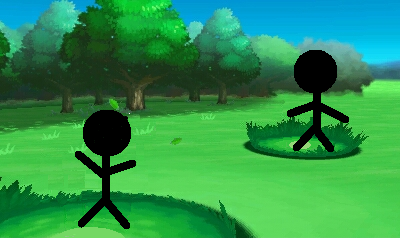
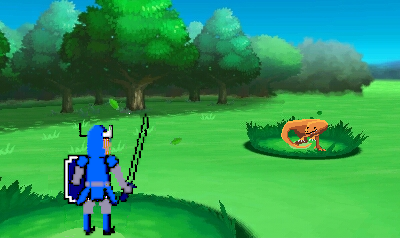
Added new backgrounds for combats

diff --git a/RPG-Project/src/sample/CombatView.java b/RPG-Project/src/sample/CombatView.java
@@ -19,7 +19,7 @@ import java.io.FileNotFoundException;
 
 
 public class CombatView extends StackPane implements CombatSubscriber{
-    protected Image background;
+    protected Image background, bossBackground;
     protected Button attack, run, magic, heal, retryYes, retryNo, next;
     protected ProgressBar playerXPBar, playerHealthBar, playerManaBar, enemyHealthBar, enemyManaBar;
     protected Label Enemy, Player, HP, XP, Mana, Retry, Dialogue, playerLevel, enemyLevel, enemyHP, enemyMana;
@@ -27,7 +27,7 @@ public class CombatView extends StackPane implements CombatSubscriber{
     protected HBox bottomMain,hp ,xp, mana, top, enemyHPBOX, enemyMANABOX;
     protected VBox main, retryBottom, buttonsMain, defenseButtons, retry, enemy, player,diaNext, dialogueMain;
     protected ImageView imageView;
-    protected FileInputStream inputStream;
+    protected FileInputStream inputStreamBaby, inputStreamBoss;
 
     /**
      * CombatView controller
@@ -35,13 +35,17 @@ public class CombatView extends StackPane implements CombatSubscriber{
      */
     public CombatView() throws FileNotFoundException {
 
-        // Background Picture
-        inputStream = new FileInputStream("background.png");
-        background = new Image(inputStream);
+        // Main Background Picture
+        inputStreamBaby = new FileInputStream("background.png");
+        background = new Image(inputStreamBaby);
         imageView = new ImageView();
         imageView.setImage(background);
         imageView.setFitWidth(1300);
         imageView.setFitHeight(800);
+
+        // Boss Background Picture
+        inputStreamBoss = new FileInputStream("bossBackground.png");
+        bossBackground = new Image(inputStreamBoss);
 
         // XP, Mana, and Health Bars
         playerXPBar = new ProgressBar(0);
@@ -211,18 +215,23 @@ public class CombatView extends StackPane implements CombatSubscriber{
         enemyLevel.setText("Level: " + model.enemy.characterStats.getCharacterLevel());
     }
 
+    protected void setBossBackground() {
+        imageView.setImage(bossBackground);
+    }
+
     /**
      * Update view according to what has changed in the model
      */
     @Override
     public void modelChanged() {
+
+        //setBossBackground();
         Dialogue.setText(model.getCurrentDialogue());
 
         setNames();
 
         this.setBars();
         this.checkTurn();
-
 
         // If player loses, option to replay
         if (model.player.characterStats.getHealth() <= 0) {

diff --git a/RPG-Project/src/sample/CombatSubscriber.java b/RPG-Project/src/sample/CombatSubscriber.java
@@ -1,5 +1,6 @@
 package sample;
 
+
 public interface CombatSubscriber {
 
     void modelChanged();
